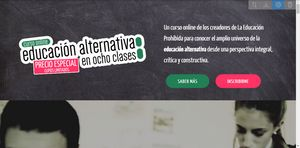
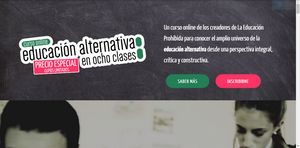
homepage

Changed region(s): [[0.81, 0.0, 0.99, 0.0811]]

diff --git a/assets/parallax/jarallax.min.js b/assets/parallax/jarallax.min.js
@@ -1,7 +1,7 @@
 /*!
  * Name    : Just Another Parallax [Jarallax]
- * Version : 1.10.6
- * Author  : nK <https://nkdev.info>
+ * Version : 1.7.3
+ * Author  : _nK https://nkdev.info
  * GitHub  : https://github.com/nk-o/jarallax
- */!function(o){var n={};function i(e){if(n[e])return n[e].exports;var t=n[e]={i:e,l:!1,exports:{}};return o[e].call(t.exports,t,t.exports,i),t.l=!0,t.exports}i.m=o,i.c=n,i.d=function(e,t,o){i.o(e,t)||Object.defineProperty(e,t,{enumerable:!0,get:o})},i.r=function(e){"undefined"!=typeof Symbol&&Symbol.toStringTag&&Object.defineProperty(e,Symbol.toStringTag,{value:"Module"}),Object.defineProperty(e,"__esModule",{value:!0})},i.t=function(t,e){if(1&e&&(t=i(t)),8&e)return t;if(4&e&&"object"==typeof t&&t&&t.__esModule)return t;var o=Object.create(null);if(i.r(o),Object.defineProperty(o,"default",{enumerable:!0,value:t}),2&e&&"string"!=typeof t)for(var n in t)i.d(o,n,function(e){return t[e]}.bind(null,n));return o},i.n=function(e){var t=e&&e.__esModule?function(){return e.default}:function(){return e};return i.d(t,"a",t),t},i.o=function(e,t){return Object.prototype.hasOwnProperty.call(e,t)},i.p="",i(i.s=11)}([,,function(e,t,o){"use strict";e.exports=function(e){"complete"===document.readyState||"interactive"===document.readyState?e.call():document.attachEvent?document.attachEvent("onreadystatechange",function(){"interactive"===document.readyState&&e.call()}):document.addEventListener&&document.addEventListener("DOMContentLoaded",e)}},,function(o,e,t){"use strict";(function(e){var t;t="undefined"!=typeof window?window:void 0!==e?e:"undefined"!=typeof self?self:{},o.exports=t}).call(this,t(5))},function(e,t,o){"use strict";var n,i="function"==typeof Symbol&&"symbol"==typeof Symbol.iterator?function(e){return typeof e}:function(e){return e&&"function"==typeof Symbol&&e.constructor===Symbol&&e!==Symbol.prototype?"symbol":typeof e};n=function(){return this}();try{n=n||Function("return this")()||(0,eval)("this")}catch(e){"object"===("undefined"==typeof window?"undefined":i(window))&&(n=window)}e.exports=n},,,,,,function(e,t,o){e.exports=o(12)},function(e,t,o){"use strict";var n="function"==typeof Symbol&&"symbol"==typeof Symbol.iterator?function(e){return typeof e}:function(e){return e&&"function"==typeof Symbol&&e.constructor===Symbol&&e!==Symbol.prototype?"symbol":typeof e},i=l(o(2)),a=o(4),r=l(o(13));function l(e){return e&&e.__esModule?e:{default:e}}var s=a.window.jarallax;if(a.window.jarallax=r.default,a.window.jarallax.noConflict=function(){return a.window.jarallax=s,this},void 0!==a.jQuery){var c=function(){var e=arguments||[];Array.prototype.unshift.call(e,this);var t=r.default.apply(a.window,e);return"object"!==(void 0===t?"undefined":n(t))?t:this};c.constructor=r.default.constructor;var u=a.jQuery.fn.jarallax;a.jQuery.fn.jarallax=c,a.jQuery.fn.jarallax.noConflict=function(){return a.jQuery.fn.jarallax=u,this}}(0,i.default)(function(){(0,r.default)(document.querySelectorAll("[data-jarallax]"))})},function(e,j,S){"use strict";(function(e){Object.defineProperty(j,"__esModule",{value:!0});var d=function(e,t){if(Array.isArray(e))return e;if(Symbol.iterator in Object(e))return function(e,t){var o=[],n=!0,i=!1,a=void 0;try{for(var r,l=e[Symbol.iterator]();!(n=(r=l.next()).done)&&(o.push(r.value),!t||o.length!==t);n=!0);}catch(e){i=!0,a=e}finally{try{!n&&l.return&&l.return()}finally{if(i)throw a}}return o}(e,t);throw new TypeError("Invalid attempt to destructure non-iterable instance")},t=function(){function n(e,t){for(var o=0;o<t.length;o++){var n=t[o];n.enumerable=n.enumerable||!1,n.configurable=!0,"value"in n&&(n.writable=!0),Object.defineProperty(e,n.key,n)}}return function(e,t,o){return t&&n(e.prototype,t),o&&n(e,o),e}}(),p="function"==typeof Symbol&&"symbol"==typeof Symbol.iterator?function(e){return typeof e}:function(e){return e&&"function"==typeof Symbol&&e.constructor===Symbol&&e!==Symbol.prototype?"symbol":typeof e},o=a(S(2)),n=a(S(14)),i=S(4);function a(e){return e&&e.__esModule?e:{default:e}}var s=-1<navigator.userAgent.indexOf("MSIE ")||-1<navigator.userAgent.indexOf("Trident/")||-1<navigator.userAgent.indexOf("Edge/"),r=function(){for(var e="transform WebkitTransform MozTransform".split(" "),t=document.createElement("div"),o=0;o<e.length;o++)if(t&&void 0!==t.style[e[o]])return e[o];return!1}(),b=void 0,v=void 0,l=void 0,c=!1,u=!1;function m(e){b=i.window.innerWidth||document.documentElement.clientWidth,v=i.window.innerHeight||document.documentElement.clientHeight,"object"!==(void 0===e?"undefined":p(e))||"load"!==e.type&&"dom-loaded"!==e.type||(c=!0)}m(),i.window.addEventListener("resize",m),i.window.addEventListener("orientationchange",m),i.window.addEventListener("load",m),(0,o.default)(function(){m({type:"dom-loaded"})});var f=[],y=!1;function g(){if(f.length){l=void 0!==i.window.pageYOffset?i.window.pageYOffset:(document.documentElement||document.body.parentNode||document.body).scrollTop;var t=c||!y||y.width!==b||y.height!==v,o=u||t||!y||y.y!==l;u=c=!1,(t||o)&&(f.forEach(function(e){t&&e.onResize(),o&&e.onScroll()}),y={width:b,height:v,y:l}),(0,n.default)(g)}}var h=!!e.ResizeObserver&&new e.ResizeObserver(function(e){e&&e.length&&(0,n.default)(function(){e.forEach(function(e){e.target&&e.target.jarallax&&(c||e.target.jarallax.onResize(),u=!0)})})}),x=0,w=function(){function u(e,t){!function(e,t){if(!(e instanceof t))throw new TypeError("Cannot call a class as a function")}(this,u);var o=this;o.instanceID=x++,o.$item=e,o.defaults={type:"scroll",speed:.5,imgSrc:null,imgElement:".jarallax-img",imgSize:"cover",imgPosition:"50% 50%",imgRepeat:"no-repeat",keepImg:!1,elementInViewport:null,zIndex:-100,disableParallax:!1,disableVideo:!1,automaticResize:!0,videoSrc:null,videoStartTime:0,videoEndTime:0,videoVolume:0,videoPlayOnlyVisible:!0,onScroll:null,onInit:null,onDestroy:null,onCoverImage:null};var n=o.$item.getAttribute("data-jarallax"),i=JSON.parse(n||"{}");n&&console.warn("Detected usage of deprecated data-jarallax JSON options, you should use pure data-attribute options. See info here - https://github.com/nk-o/jarallax/issues/53");var a=o.$item.dataset||{},r={};if(Object.keys(a).forEach(function(e){var t=e.substr(0,1).toLowerCase()+e.substr(1);t&&void 0!==o.defaults[t]&&(r[t]=a[e])}),o.options=o.extend({},o.defaults,i,r,t),o.pureOptions=o.extend({},o.options),Object.keys(o.options).forEach(function(e){"true"===o.options[e]?o.options[e]=!0:"false"===o.options[e]&&(o.options[e]=!1)}),o.options.speed=Math.min(2,Math.max(-1,parseFloat(o.options.speed))),(o.options.noAndroid||o.options.noIos)&&(console.warn("Detected usage of deprecated noAndroid or noIos options, you should use disableParallax option. See info here - https://github.com/nk-o/jarallax/#disable-on-mobile-devices"),o.options.disableParallax||(o.options.noIos&&o.options.noAndroid?o.options.disableParallax=/iPad|iPhone|iPod|Android/:o.options.noIos?o.options.disableParallax=/iPad|iPhone|iPod/:o.options.noAndroid&&(o.options.disableParallax=/Android/))),"string"==typeof o.options.disableParallax&&(o.options.disableParallax=new RegExp(o.options.disableParallax)),o.options.disableParallax instanceof RegExp){var l=o.options.disableParallax;o.options.disableParallax=function(){return l.test(navigator.userAgent)}}if("function"!=typeof o.options.disableParallax&&(o.options.disableParallax=function(){return!1}),"string"==typeof o.options.disableVideo&&(o.options.disableVideo=new RegExp(o.options.disableVideo)),o.options.disableVideo instanceof RegExp){var s=o.options.disableVideo;o.options.disableVideo=function(){return s.test(navigator.userAgent)}}"function"!=typeof o.options.disableVideo&&(o.options.disableVideo=function(){return!1});var c=o.options.elementInViewport;c&&"object"===(void 0===c?"undefined":p(c))&&void 0!==c.length&&(c=d(c,1)[0]);c instanceof Element||(c=null),o.options.elementInViewport=c,o.image={src:o.options.imgSrc||null,$container:null,useImgTag:!1,position:/iPad|iPhone|iPod|Android/.test(navigator.userAgent)?"absolute":"fixed"},o.initImg()&&o.canInitParallax()&&o.init()}return t(u,[{key:"css",value:function(t,o){return"string"==typeof o?i.window.getComputedStyle(t).getPropertyValue(o):(o.transform&&r&&(o[r]=o.transform),Object.keys(o).forEach(function(e){t.style[e]=o[e]}),t)}},{key:"extend",value:function(o){var n=arguments;return o=o||{},Object.keys(arguments).forEach(function(t){n[t]&&Object.keys(n[t]).forEach(function(e){o[e]=n[t][e]})}),o}},{key:"getWindowData",value:function(){return{width:b,height:v,y:l}}},{key:"initImg",value:function(){var e=this,t=e.options.imgElement;return t&&"string"==typeof t&&(t=e.$item.querySelector(t)),t instanceof Element||(t=null),t&&(e.options.keepImg?e.image.$item=t.cloneNode(!0):(e.image.$item=t,e.image.$itemParent=t.parentNode),e.image.useImgTag=!0),!!e.image.$item||(null===e.image.src&&(e.image.src=e.css(e.$item,"background-image").replace(/^url\(['"]?/g,"").replace(/['"]?\)$/g,"")),!(!e.image.src||"none"===e.image.src))}},{key:"canInitParallax",value:function(){return r&&!this.options.disableParallax()}},{key:"init",value:function(){var e=this,t={position:"absolute",top:0,left:0,width:"100%",height:"100%",overflow:"hidden",pointerEvents:"none"},o={};if(!e.options.keepImg){var n=e.$item.getAttribute("style");if(n&&e.$item.setAttribute("data-jarallax-original-styles",n),e.image.useImgTag){var i=e.image.$item.getAttribute("style");i&&e.image.$item.setAttribute("data-jarallax-original-styles",i)}}if("static"===e.css(e.$item,"position")&&e.css(e.$item,{position:"relative"}),"auto"===e.css(e.$item,"z-index")&&e.css(e.$item,{zIndex:0}),e.image.$container=document.createElement("div"),e.css(e.image.$container,t),e.css(e.image.$container,{"z-index":e.options.zIndex}),s&&e.css(e.image.$container,{opacity:.9999}),e.image.$container.setAttribute("id","jarallax-container-"+e.instanceID),e.$item.appendChild(e.image.$container),e.image.useImgTag?o=e.extend({"object-fit":e.options.imgSize,"object-position":e.options.imgPosition,"font-family":"object-fit: "+e.options.imgSize+"; object-position: "+e.options.imgPosition+";","max-width":"none"},t,o):(e.image.$item=document.createElement("div"),e.image.src&&(o=e.extend({"background-position":e.options.imgPosition,"background-size":e.options.imgSize,"background-repeat":e.options.imgRepeat,"background-image":'url("'+e.image.src+'")'},t,o))),"opacity"!==e.options.type&&"scale"!==e.options.type&&"scale-opacity"!==e.options.type&&1!==e.options.speed||(e.image.position="absolute"),"fixed"===e.image.position)for(var a=0,r=e.$item;null!==r&&r!==document&&0===a;){var l=e.css(r,"-webkit-transform")||e.css(r,"-moz-transform")||e.css(r,"transform");l&&"none"!==l&&(a=1,e.image.position="absolute"),r=r.parentNode}o.position=e.image.position,e.css(e.image.$item,o),e.image.$container.appendChild(e.image.$item),e.onResize(),e.onScroll(!0),e.options.automaticResize&&h&&h.observe(e.$item),e.options.onInit&&e.options.onInit.call(e),"none"!==e.css(e.$item,"background-image")&&e.css(e.$item,{"background-image":"none"}),e.addToParallaxList()}},{key:"addToParallaxList",value:function(){f.push(this),1===f.length&&g()}},{key:"removeFromParallaxList",value:function(){var o=this;f.forEach(function(e,t){e.instanceID===o.instanceID&&f.splice(t,1)})}},{key:"destroy",value:function(){var e=this;e.removeFromParallaxList();var t=e.$item.getAttribute("data-jarallax-original-styles");if(e.$item.removeAttribute("data-jarallax-original-styles"),t?e.$item.setAttribute("style",t):e.$item.removeAttribute("style"),e.image.useImgTag){var o=e.image.$item.getAttribute("data-jarallax-original-styles");e.image.$item.removeAttribute("data-jarallax-original-styles"),o?e.image.$item.setAttribute("style",t):e.image.$item.removeAttribute("style"),e.image.$itemParent&&e.image.$itemParent.appendChild(e.image.$item)}e.$clipStyles&&e.$clipStyles.parentNode.removeChild(e.$clipStyles),e.image.$container&&e.image.$container.parentNode.removeChild(e.image.$container),e.options.onDestroy&&e.options.onDestroy.call(e),delete e.$item.jarallax}},{key:"clipContainer",value:function(){if("fixed"===this.image.position){var e=this,t=e.image.$container.getBoundingClientRect(),o=t.width,n=t.height;if(!e.$clipStyles)e.$clipStyles=document.createElement("style"),e.$clipStyles.setAttribute("type","text/css"),e.$clipStyles.setAttribute("id","jarallax-clip-"+e.instanceID),(document.head||document.getElementsByTagName("head")[0]).appendChild(e.$clipStyles);var i="#jarallax-container-"+e.instanceID+" {\n           clip: rect(0 "+o+"px "+n+"px 0);\n           clip: rect(0, "+o+"px, "+n+"px, 0);\n        }";e.$clipStyles.styleSheet?e.$clipStyles.styleSheet.cssText=i:e.$clipStyles.innerHTML=i}}},{key:"coverImage",value:function(){var e=this,t=e.image.$container.getBoundingClientRect(),o=t.height,n=e.options.speed,i="scroll"===e.options.type||"scroll-opacity"===e.options.type,a=0,r=o,l=0;return i&&(n<0?(a=n*Math.max(o,v),v<o&&(a-=n*(o-v))):a=n*(o+v),1<n?r=Math.abs(a-v):n<0?r=a/n+Math.abs(a):r+=(v-o)*(1-n),a/=2),e.parallaxScrollDistance=a,l=i?(v-r)/2:(o-r)/2,e.css(e.image.$item,{height:r+"px",marginTop:l+"px",left:"fixed"===e.image.position?t.left+"px":"0",width:t.width+"px"}),e.options.onCoverImage&&e.options.onCoverImage.call(e),{image:{height:r,marginTop:l},container:t}}},{key:"isVisible",value:function(){return this.isElementInViewport||!1}},{key:"onScroll",value:function(e){var t=this,o=t.$item.getBoundingClientRect(),n=o.top,i=o.height,a={},r=o;if(t.options.elementInViewport&&(r=t.options.elementInViewport.getBoundingClientRect()),t.isElementInViewport=0<=r.bottom&&0<=r.right&&r.top<=v&&r.left<=b,e||t.isElementInViewport){var l=Math.max(0,n),s=Math.max(0,i+n),c=Math.max(0,-n),u=Math.max(0,n+i-v),d=Math.max(0,i-(n+i-v)),p=Math.max(0,-n+v-i),m=1-2*(v-n)/(v+i),f=1;if(i<v?f=1-(c||u)/i:s<=v?f=s/v:d<=v&&(f=d/v),"opacity"!==t.options.type&&"scale-opacity"!==t.options.type&&"scroll-opacity"!==t.options.type||(a.transform="translate3d(0,0,0)",a.opacity=f),"scale"===t.options.type||"scale-opacity"===t.options.type){var y=1;t.options.speed<0?y-=t.options.speed*f:y+=t.options.speed*(1-f),a.transform="scale("+y+") translate3d(0,0,0)"}if("scroll"===t.options.type||"scroll-opacity"===t.options.type){var g=t.parallaxScrollDistance*m;"absolute"===t.image.position&&(g-=n),a.transform="translate3d(0,"+g+"px,0)"}t.css(t.image.$item,a),t.options.onScroll&&t.options.onScroll.call(t,{section:o,beforeTop:l,beforeTopEnd:s,afterTop:c,beforeBottom:u,beforeBottomEnd:d,afterBottom:p,visiblePercent:f,fromViewportCenter:m})}}},{key:"onResize",value:function(){this.coverImage(),this.clipContainer()}}]),u}(),$=function(e){("object"===("undefined"==typeof HTMLElement?"undefined":p(HTMLElement))?e instanceof HTMLElement:e&&"object"===(void 0===e?"undefined":p(e))&&null!==e&&1===e.nodeType&&"string"==typeof e.nodeName)&&(e=[e]);for(var t=arguments[1],o=Array.prototype.slice.call(arguments,2),n=e.length,i=0,a=void 0;i<n;i++)if("object"===(void 0===t?"undefined":p(t))||void 0===t?e[i].jarallax||(e[i].jarallax=new w(e[i],t)):e[i].jarallax&&(a=e[i].jarallax[t].apply(e[i].jarallax,o)),void 0!==a)return a;return e};$.constructor=w,j.default=$}).call(this,S(5))},function(e,t,o){"use strict";var n=o(4),i=n.requestAnimationFrame||n.webkitRequestAnimationFrame||n.mozRequestAnimationFrame||function(e){var t=+new Date,o=Math.max(0,16-(t-a)),n=setTimeout(e,o);return a=t,n},a=+new Date;var r=n.cancelAnimationFrame||n.webkitCancelAnimationFrame||n.mozCancelAnimationFrame||clearTimeout;Function.prototype.bind&&(i=i.bind(n),r=r.bind(n)),(e.exports=i).cancel=r}]);
-//# sourceMappingURL=jarallax.min.js.map
+ */
+!function(e){"use strict";function t(){i=e.innerWidth||document.documentElement.clientWidth,a=e.innerHeight||document.documentElement.clientHeight}function n(e,t,n){e.addEventListener?e.addEventListener(t,n):e.attachEvent("on"+t,function(){n.call(e)})}function o(n){e.requestAnimationFrame(function(){"scroll"!==n.type&&t();for(var e=0,o=g.length;e<o;e++)"scroll"!==n.type&&(g[e].coverImage(),g[e].clipContainer()),g[e].onScroll()})}Date.now||(Date.now=function(){return(new Date).getTime()}),e.requestAnimationFrame||!function(){for(var t=["webkit","moz"],n=0;n<t.length&&!e.requestAnimationFrame;++n){var o=t[n];e.requestAnimationFrame=e[o+"RequestAnimationFrame"],e.cancelAnimationFrame=e[o+"CancelAnimationFrame"]||e[o+"CancelRequestAnimationFrame"]}if(/iP(ad|hone|od).*OS 6/.test(e.navigator.userAgent)||!e.requestAnimationFrame||!e.cancelAnimationFrame){var i=0;e.requestAnimationFrame=function(e){var t=Date.now(),n=Math.max(i+16,t);return setTimeout(function(){e(i=n)},n-t)},e.cancelAnimationFrame=clearTimeout}}();var i,a,r=function(){if(!e.getComputedStyle)return!1;var t,n=document.createElement("p"),o={webkitTransform:"-webkit-transform",OTransform:"-o-transform",msTransform:"-ms-transform",MozTransform:"-moz-transform",transform:"transform"};(document.body||document.documentElement).insertBefore(n,null);for(var i in o)"undefined"!=typeof n.style[i]&&(n.style[i]="translate3d(1px,1px,1px)",t=e.getComputedStyle(n).getPropertyValue(o[i]));return(document.body||document.documentElement).removeChild(n),"undefined"!=typeof t&&t.length>0&&"none"!==t}(),l=navigator.userAgent.toLowerCase().indexOf("android")>-1,s=/iPad|iPhone|iPod/.test(navigator.userAgent)&&!e.MSStream,c=!!e.opera,m=/Edge\/\d+/.test(navigator.userAgent),p=/Trident.*rv[ :]*11\./.test(navigator.userAgent),u=!!Function("/*@cc_on return document.documentMode===10@*/")(),d=document.all&&!e.atob;t();var g=[],f=function(){function e(e,n){var o,i=this;if(i.$item=e,i.defaults={type:"scroll",speed:.5,imgSrc:null,imgWidth:null,imgHeight:null,enableTransform:!0,elementInViewport:null,zIndex:-100,noAndroid:!1,noIos:!0,onScroll:null,onInit:null,onDestroy:null,onCoverImage:null},o=JSON.parse(i.$item.getAttribute("data-jarallax")||"{}"),i.options=i.extend({},i.defaults,o,n),!(l&&i.options.noAndroid||s&&i.options.noIos)){i.options.speed=Math.min(2,Math.max(-1,parseFloat(i.options.speed)));var a=i.options.elementInViewport;a&&"object"==typeof a&&"undefined"!=typeof a.length&&(a=a[0]),!a instanceof Element&&(a=null),i.options.elementInViewport=a,i.instanceID=t++,i.image={src:i.options.imgSrc||null,$container:null,$item:null,width:i.options.imgWidth||null,height:i.options.imgHeight||null,useImgTag:s||l||c||p||u||m},i.initImg()&&i.init()}}var t=0;return e}();f.prototype.css=function(t,n){if("string"==typeof n)return e.getComputedStyle?e.getComputedStyle(t).getPropertyValue(n):t.style[n];n.transform&&(n.WebkitTransform=n.MozTransform=n.transform);for(var o in n)t.style[o]=n[o];return t},f.prototype.extend=function(e){e=e||{};for(var t=1;t<arguments.length;t++)if(arguments[t])for(var n in arguments[t])arguments[t].hasOwnProperty(n)&&(e[n]=arguments[t][n]);return e},f.prototype.initImg=function(){var e=this;return null===e.image.src&&(e.image.src=e.css(e.$item,"background-image").replace(/^url\(['"]?/g,"").replace(/['"]?\)$/g,"")),!(!e.image.src||"none"===e.image.src)},f.prototype.init=function(){function e(){t.coverImage(),t.clipContainer(),t.onScroll(!0),t.options.onInit&&t.options.onInit.call(t),setTimeout(function(){t.$item&&t.css(t.$item,{"background-image":"none","background-attachment":"scroll","background-size":"auto"})},0)}var t=this,n={position:"absolute",top:0,left:0,width:"100%",height:"100%",overflow:"hidden",pointerEvents:"none"},o={position:"fixed"};t.$item.setAttribute("data-jarallax-original-styles",t.$item.getAttribute("style")),"static"===t.css(t.$item,"position")&&t.css(t.$item,{position:"relative"}),"auto"===t.css(t.$item,"z-index")&&t.css(t.$item,{zIndex:0}),t.image.$container=document.createElement("div"),t.css(t.image.$container,n),t.css(t.image.$container,{visibility:"hidden","z-index":t.options.zIndex}),t.image.$container.setAttribute("id","jarallax-container-"+t.instanceID),t.$item.appendChild(t.image.$container),t.image.useImgTag&&r&&t.options.enableTransform?(t.image.$item=document.createElement("img"),t.image.$item.setAttribute("src",t.image.src),o=t.extend({"max-width":"none"},n,o)):(t.image.$item=document.createElement("div"),o=t.extend({"background-position":"50% 50%","background-size":"100% auto","background-repeat":"no-repeat no-repeat","background-image":'url("'+t.image.src+'")'},n,o)),d&&(o.backgroundAttachment="fixed"),t.parentWithTransform=0;for(var i=t.$item;null!==i&&i!==document&&0===t.parentWithTransform;){var a=t.css(i,"-webkit-transform")||t.css(i,"-moz-transform")||t.css(i,"transform");a&&"none"!==a&&(t.parentWithTransform=1,t.css(t.image.$container,{transform:"translateX(0) translateY(0)"})),i=i.parentNode}t.css(t.image.$item,o),t.image.$container.appendChild(t.image.$item),t.image.width&&t.image.height?e():t.getImageSize(t.image.src,function(n,o){t.image.width=n,t.image.height=o,e()}),g.push(t)},f.prototype.destroy=function(){for(var e=this,t=0,n=g.length;t<n;t++)if(g[t].instanceID===e.instanceID){g.splice(t,1);break}var o=e.$item.getAttribute("data-jarallax-original-styles");e.$item.removeAttribute("data-jarallax-original-styles"),"null"===o?e.$item.removeAttribute("style"):e.$item.setAttribute("style",o),e.$clipStyles&&e.$clipStyles.parentNode.removeChild(e.$clipStyles),e.image.$container.parentNode.removeChild(e.image.$container),e.options.onDestroy&&e.options.onDestroy.call(e),delete e.$item.jarallax;for(var i in e)delete e[i]},f.prototype.getImageSize=function(e,t){if(e&&t){var n=new Image;n.onload=function(){t(n.width,n.height)},n.src=e}},f.prototype.clipContainer=function(){if(!d){var e=this,t=e.image.$container.getBoundingClientRect(),n=t.width,o=t.height;if(!e.$clipStyles){e.$clipStyles=document.createElement("style"),e.$clipStyles.setAttribute("type","text/css"),e.$clipStyles.setAttribute("id","#jarallax-clip-"+e.instanceID);var i=document.head||document.getElementsByTagName("head")[0];i.appendChild(e.$clipStyles)}var a=["#jarallax-container-"+e.instanceID+" {","   clip: rect(0 "+n+"px "+o+"px 0);","   clip: rect(0, "+n+"px, "+o+"px, 0);","}"].join("\n");e.$clipStyles.styleSheet?e.$clipStyles.styleSheet.cssText=a:e.$clipStyles.innerHTML=a}},f.prototype.coverImage=function(){var e=this;if(e.image.width&&e.image.height){var t=e.image.$container.getBoundingClientRect(),n=t.width,o=t.height,i=t.left,l=e.image.width,s=e.image.height,c=e.options.speed,m="scroll"===e.options.type||"scroll-opacity"===e.options.type,p=0,u=0,d=o,g=0,f=0;m&&(p=c<0?c*Math.max(o,a):c*(o+a),c>1?d=Math.abs(p-a):c<0?d=p/c+Math.abs(p):d+=Math.abs(a-o)*(1-c),p/=2),u=d*l/s,u<n&&(u=n,d=u*s/l),e.bgPosVerticalCenter=0,!(m&&d<a)||r&&e.options.enableTransform||(e.bgPosVerticalCenter=(a-d)/2,d=a),m?(g=i+(n-u)/2,f=(a-d)/2):(g=(n-u)/2,f=(o-d)/2),r&&e.options.enableTransform&&e.parentWithTransform&&(g-=i),e.parallaxScrollDistance=p,e.css(e.image.$item,{width:u+"px",height:d+"px",marginLeft:g+"px",marginTop:f+"px"}),e.options.onCoverImage&&e.options.onCoverImage.call(e)}},f.prototype.isVisible=function(){return this.isElementInViewport||!1},f.prototype.onScroll=function(e){var t=this;if(t.image.width&&t.image.height){var n=t.$item.getBoundingClientRect(),o=n.top,l=n.height,s={position:"absolute",visibility:"visible",backgroundPosition:"50% 50%"},c=n;if(t.options.elementInViewport&&(c=t.options.elementInViewport.getBoundingClientRect()),t.isElementInViewport=c.bottom>=0&&c.right>=0&&c.top<=a&&c.left<=i,e||t.isElementInViewport){var m=Math.max(0,o),p=Math.max(0,l+o),u=Math.max(0,-o),g=Math.max(0,o+l-a),f=Math.max(0,l-(o+l-a)),h=Math.max(0,-o+a-l),y=1-2*(a-o)/(a+l),v=1;if(l<a?v=1-(u||g)/l:p<=a?v=p/a:f<=a&&(v=f/a),"opacity"!==t.options.type&&"scale-opacity"!==t.options.type&&"scroll-opacity"!==t.options.type||(s.transform="translate3d(0, 0, 0)",s.opacity=v),"scale"===t.options.type||"scale-opacity"===t.options.type){var x=1;t.options.speed<0?x-=t.options.speed*v:x+=t.options.speed*(1-v),s.transform="scale("+x+") translate3d(0, 0, 0)"}if("scroll"===t.options.type||"scroll-opacity"===t.options.type){var b=t.parallaxScrollDistance*y;r&&t.options.enableTransform?(t.parentWithTransform&&(b-=o),s.transform="translate3d(0, "+b+"px, 0)"):t.image.useImgTag?s.top=b+"px":(t.bgPosVerticalCenter&&(b+=t.bgPosVerticalCenter),s.backgroundPosition="50% "+b+"px"),s.position=d?"absolute":"fixed"}t.css(t.image.$item,s),t.options.onScroll&&t.options.onScroll.call(t,{section:n,beforeTop:m,beforeTopEnd:p,afterTop:u,beforeBottom:g,beforeBottomEnd:f,afterBottom:h,visiblePercent:v,fromViewportCenter:y})}}},n(e,"scroll",o),n(e,"resize",o),n(e,"orientationchange",o),n(e,"load",o);var h=function(e){("object"==typeof HTMLElement?e instanceof HTMLElement:e&&"object"==typeof e&&null!==e&&1===e.nodeType&&"string"==typeof e.nodeName)&&(e=[e]);var t,n=arguments[1],o=Array.prototype.slice.call(arguments,2),i=e.length,a=0;for(a;a<i;a++)if("object"==typeof n||"undefined"==typeof n?e[a].jarallax||(e[a].jarallax=new f(e[a],n)):e[a].jarallax&&(t=e[a].jarallax[n].apply(e[a].jarallax,o)),"undefined"!=typeof t)return t;return e};h.constructor=f;var y=e.jarallax;if(e.jarallax=h,e.jarallax.noConflict=function(){return e.jarallax=y,this},"undefined"!=typeof jQuery){var v=function(){var t=arguments||[];Array.prototype.unshift.call(t,this);var n=h.apply(e,t);return"object"!=typeof n?n:this};v.constructor=f;var x=jQuery.fn.jarallax;jQuery.fn.jarallax=v,jQuery.fn.jarallax.noConflict=function(){return jQuery.fn.jarallax=x,this}}n(e,"DOMContentLoaded",function(){h(document.querySelectorAll("[data-jarallax], [data-jarallax-video]"))})}(window);

diff --git a/assets/mobirise/css/mbr-additional.css b/assets/mobirise/css/mbr-additional.css
@@ -92,15 +92,12 @@ body {
   -webkit-transition: all 0.3s ease-in-out;
   -moz-transition: all 0.3s ease-in-out;
   transition: all 0.3s ease-in-out;
+  padding: 1rem 3rem;
+  border-radius: 3px;
   display: inline-flex;
   align-items: center;
   justify-content: center;
   word-break: break-word;
-  -webkit-align-items: center;
-  -webkit-justify-content: center;
-  display: -webkit-inline-flex;
-  padding: 1rem 3rem;
-  border-radius: 3px;
 }
 .btn-sm {
   font-weight: 500;
@@ -611,7 +608,6 @@ a:hover {
   left: 30%;
   bottom: 30%;
   transform: rotate(135deg);
-  -webkit-transform: rotate(135deg);
 }
 /* Others*/
 .note-check a[data-value=Rubik] {
@@ -652,7 +648,6 @@ a:hover {
   position: absolute;
   transform: rotate(45deg);
   width: 14px;
-  -webkit-transform: rotate(45deg);
 }
 .form-control {
   background-color: #f5f5f5;
@@ -714,7 +709,6 @@ pre {
 }
 .mbr-section__comments .row {
   justify-content: center;
-  -webkit-justify-content: center;
 }
 /* Forms */
 .mbr-form .btn {
@@ -1166,7 +1160,10 @@ pre {
     align-items: center;
   }
   .navbar-toggleable-sm .navbar-collapse {
-    display: none;
+    display: -webkit-box !important;
+    display: -webkit-flex !important;
+    display: -ms-flexbox !important;
+    display: flex !important;
     width: 100%;
   }
   .navbar-toggleable-sm .navbar-toggler {
@@ -1354,7 +1351,6 @@ pre {
 }
 .menu .navbar.collapsed:not(.beta-menu) {
   flex-direction: column;
-  -webkit-flex-direction: column;
 }
 .carousel-item.active,
 .carousel-item-next,
@@ -1375,11 +1371,6 @@ body {
 }
 .dropup .dropdown-toggle::after {
   display: none;
-}
-@media screen and (-ms-high-contrast: active), (-ms-high-contrast: none) {
-  .card-wrapper {
-    flex: auto!important;
-  }
 }
 .cid-rdSqKphtix {
   padding-top: 45px;

diff --git a/index.html b/index.html
@@ -1,10 +1,10 @@
 <!DOCTYPE html>
 <html >
 <head>
-  <!-- Site made with Mobirise Website Builder v4.9.1, https://mobirise.com -->
+  <!-- Site made with Mobirise Website Builder v4.8.2, https://mobirise.com -->
   <meta charset="UTF-8">
   <meta http-equiv="X-UA-Compatible" content="IE=edge">
-  <meta name="generator" content="Mobirise v4.9.1, mobirise.com">
+  <meta name="generator" content="Mobirise v4.8.2, mobirise.com">
   <meta name="viewport" content="width=device-width, initial-scale=1, minimum-scale=1">
   <link rel="shortcut icon" href="assets/images/grupo-128x63.png" type="image/x-icon">
   <meta name="description" content="">
@@ -53,7 +53,7 @@
     </nav>
 </section>
 
-<section class="engine"><a href="https://mobirise.info/z">best free website templates</a></section><section class="header3 cid-rdSqKphtix mbr-parallax-background" id="header3-3n">
+<section class="engine"><a href="https://mobiri.se/o">free portfolio website templates</a></section><section class="header3 cid-rdSqKphtix mbr-parallax-background" id="header3-3n">
 
     
 
@@ -62,7 +62,7 @@
     <div class="container">
         <div class="media-container-row">
             <div class="mbr-figure" style="width: 120%;">
-                <a href="https://desaprenderonline.com/curso/"><img src="assets/images/logo-dic-1116x529.png" alt="Mobirise" title=""></a>
+                <a href="https://desaprenderonline.com/curso/"><img src="assets/images/findeao-1111x527.png" alt="Mobirise" title=""></a>
             </div>
 
             <div class="media-content">

diff --git a/assets/theme/css/style.css b/assets/theme/css/style.css
@@ -190,8 +190,7 @@ figure[mbr-media-size] {
 
 .card-img {
   text-align: center;
-  flex-shrink: 0;
-  -webkit-flex-shrink: 0; }
+  flex-shrink: 0; }
 
 .media {
   max-width: 100%;
@@ -415,59 +414,6 @@ nav .mbr-section-btn {
     display: -webkit-flex; }
   .menu .navbar-toggleable-sm .navbar-collapse {
     display: -webkit-flex !important; } }
-@media (max-width: 767px) {
-  .menu .navbar-collapse {
-    overflow-y: auto;
-    max-height: 80vh; }
-  .menu .dropdown-menu {
-    max-height: 60vh;
-    overflow-y: auto; } }
-
-.navbar {
-  display: -webkit-flex;
-  -webkit-flex-wrap: wrap;
-  -webkit-align-items: center;
-  -webkit-justify-content: space-between; }
-
-.navbar-collapse {
-  -webkit-flex-basis: 100%;
-  -webkit-flex-grow: 1;
-  -webkit-align-items: center; }
-
-.nav-dropdown .link {
-  padding: .667em 1.667em !important;
-  margin: 0 !important; }
-
-.nav {
-  display: -webkit-flex;
-  -webkit-flex-wrap: wrap; }
-
-.row {
-  display: -webkit-flex;
-  -webkit-flex-wrap: wrap; }
-
-.justify-content-center {
-  -webkit-justify-content: center; }
-
-.form-inline {
-  display: -webkit-flex;
-  -webkit-flex-flow: row wrap;
-  -webkit-align-items: center; }
-
-.card-wrapper {
-  -webkit-flex: 1; }
-
-.carousel-control {
-  z-index: 10;
-  display: -webkit-flex;
-  -webkit-align-items: center;
-  -webkit-justify-content: center; }
-
-.carousel-controls {
-  display: -webkit-flex; }
-
-.media {
-  display: -webkit-flex; }
 
 /*# sourceMappingURL=style.css.map */
 .engine {

diff --git a/desaprender.html b/desaprender.html
@@ -1,10 +1,10 @@
 <!DOCTYPE html>
 <html >
 <head>
-  <!-- Site made with Mobirise Website Builder v4.9.1, https://mobirise.com -->
+  <!-- Site made with Mobirise Website Builder v4.8.2, https://mobirise.com -->
   <meta charset="UTF-8">
   <meta http-equiv="X-UA-Compatible" content="IE=edge">
-  <meta name="generator" content="Mobirise v4.9.1, mobirise.com">
+  <meta name="generator" content="Mobirise v4.8.2, mobirise.com">
   <meta name="viewport" content="width=device-width, initial-scale=1, minimum-scale=1">
   <link rel="shortcut icon" href="assets/images/grupo-128x63.png" type="image/x-icon">
   <meta name="description" content="Próximo Taller Vivencial Desaprender">
@@ -53,7 +53,7 @@
     </nav>
 </section>
 
-<section class="engine"><a href="https://mobirise.info/i">website creation software</a></section><section class="header3 cid-r7qnNRUAeB mbr-parallax-background" id="header3-1o">
+<section class="engine"><a href="https://mobiri.se/h">create your own web page for free</a></section><section class="header3 cid-r7qnNRUAeB mbr-parallax-background" id="header3-1o">
 
     
 

diff --git a/formacion.html b/formacion.html
@@ -1,10 +1,10 @@
 <!DOCTYPE html>
 <html >
 <head>
-  <!-- Site made with Mobirise Website Builder v4.9.1, https://mobirise.com -->
+  <!-- Site made with Mobirise Website Builder v4.8.2, https://mobirise.com -->
   <meta charset="UTF-8">
   <meta http-equiv="X-UA-Compatible" content="IE=edge">
-  <meta name="generator" content="Mobirise v4.9.1, mobirise.com">
+  <meta name="generator" content="Mobirise v4.8.2, mobirise.com">
   <meta name="viewport" content="width=device-width, initial-scale=1, minimum-scale=1">
   <link rel="shortcut icon" href="assets/images/grupo-128x63.png" type="image/x-icon">
   <meta name="description" content="Formación de Evania Reichert en Prevención de Neurosis en la Infancia">
@@ -52,7 +52,7 @@
     </nav>
 </section>
 
-<section class="engine"><a href="https://mobirise.info/b">create your own website for free</a></section><section class="header6 cid-rt1zFkq1uU" id="header6-4h">
+<section class="engine"><a href="https://mobiri.se/b">how to create your own website for free</a></section><section class="header6 cid-rt1zFkq1uU" id="header6-4h">
 
     
 

diff --git a/desaprender-inscripcion.html b/desaprender-inscripcion.html
@@ -1,10 +1,10 @@
 <!DOCTYPE html>
 <html >
 <head>
-  <!-- Site made with Mobirise Website Builder v4.9.1, https://mobirise.com -->
+  <!-- Site made with Mobirise Website Builder v4.8.2, https://mobirise.com -->
   <meta charset="UTF-8">
   <meta http-equiv="X-UA-Compatible" content="IE=edge">
-  <meta name="generator" content="Mobirise v4.9.1, mobirise.com">
+  <meta name="generator" content="Mobirise v4.8.2, mobirise.com">
   <meta name="viewport" content="width=device-width, initial-scale=1, minimum-scale=1">
   <link rel="shortcut icon" href="assets/images/grupo-128x63.png" type="image/x-icon">
   <meta name="description" content="Site Maker Description">
@@ -52,7 +52,7 @@
     </nav>
 </section>
 
-<section class="engine"><a href="https://mobirise.info/z">best free website templates</a></section><section class="header3 cid-r7TvRGX9xJ mbr-parallax-background" id="header3-2s">
+<section class="engine"><a href="https://mobiri.se/y">free html website templates</a></section><section class="header3 cid-r7TvRGX9xJ mbr-parallax-background" id="header3-2s">
 
     
 

diff --git a/quienes.html b/quienes.html
@@ -1,10 +1,10 @@
 <!DOCTYPE html>
 <html >
 <head>
-  <!-- Site made with Mobirise Website Builder v4.9.1, https://mobirise.com -->
+  <!-- Site made with Mobirise Website Builder v4.8.2, https://mobirise.com -->
   <meta charset="UTF-8">
   <meta http-equiv="X-UA-Compatible" content="IE=edge">
-  <meta name="generator" content="Mobirise v4.9.1, mobirise.com">
+  <meta name="generator" content="Mobirise v4.8.2, mobirise.com">
   <meta name="viewport" content="width=device-width, initial-scale=1, minimum-scale=1">
   <link rel="shortcut icon" href="assets/images/grupo-128x63.png" type="image/x-icon">
   <meta name="description" content="Web Site Generator Description">
@@ -52,7 +52,7 @@
     </nav>
 </section>
 
-<section class="engine"><a href="https://mobirise.info/g">how to build your own website for free</a></section><section class="mbr-section content4 cid-r7qFN8rQj1" id="content4-2p">
+<section class="engine"><a href="https://mobiri.se/s">bootstrap theme</a></section><section class="mbr-section content4 cid-r7qFN8rQj1" id="content4-2p">
 
     
 

diff --git a/taller.html b/taller.html
@@ -1,10 +1,10 @@
 <!DOCTYPE html>
 <html >
 <head>
-  <!-- Site made with Mobirise Website Builder v4.9.1, https://mobirise.com -->
+  <!-- Site made with Mobirise Website Builder v4.8.2, https://mobirise.com -->
   <meta charset="UTF-8">
   <meta http-equiv="X-UA-Compatible" content="IE=edge">
-  <meta name="generator" content="Mobirise v4.9.1, mobirise.com">
+  <meta name="generator" content="Mobirise v4.8.2, mobirise.com">
   <meta name="viewport" content="width=device-width, initial-scale=1, minimum-scale=1">
   <link rel="shortcut icon" href="assets/images/grupo-128x63.png" type="image/x-icon">
   <meta name="description" content="">
@@ -53,7 +53,7 @@
     </nav>
 </section>
 
-<section class="engine"><a href="https://mobirise.info/u">bootstrap website templates</a></section><section class="header3 cid-rjW6AeZTAV mbr-parallax-background" id="header3-41">
+<section class="engine"><a href="https://mobiri.se/a">online website builder</a></section><section class="header3 cid-rjW6AeZTAV mbr-parallax-background" id="header3-41">
 
     
 

diff --git a/taller-inscripcion.html b/taller-inscripcion.html
@@ -1,10 +1,10 @@
 <!DOCTYPE html>
 <html >
 <head>
-  <!-- Site made with Mobirise Website Builder v4.9.1, https://mobirise.com -->
+  <!-- Site made with Mobirise Website Builder v4.8.2, https://mobirise.com -->
   <meta charset="UTF-8">
   <meta http-equiv="X-UA-Compatible" content="IE=edge">
-  <meta name="generator" content="Mobirise v4.9.1, mobirise.com">
+  <meta name="generator" content="Mobirise v4.8.2, mobirise.com">
   <meta name="viewport" content="width=device-width, initial-scale=1, minimum-scale=1">
   <link rel="shortcut icon" href="assets/images/grupo-128x63.png" type="image/x-icon">
   <meta name="description" content="">
@@ -52,7 +52,7 @@
     </nav>
 </section>
 
-<section class="engine"><a href="https://mobirise.info/e">make your own site for free</a></section><section class="header3 cid-rbdiFFcSJG mbr-parallax-background" id="header3-3j">
+<section class="engine"><a href="https://mobiri.se/l">free web templates</a></section><section class="header3 cid-rbdiFFcSJG mbr-parallax-background" id="header3-3j">
 
     
 

diff --git a/mendoza.html b/mendoza.html
@@ -1,10 +1,10 @@
 <!DOCTYPE html>
 <html >
 <head>
-  <!-- Site made with Mobirise Website Builder v4.9.1, https://mobirise.com -->
+  <!-- Site made with Mobirise Website Builder v4.8.2, https://mobirise.com -->
   <meta charset="UTF-8">
   <meta http-equiv="X-UA-Compatible" content="IE=edge">
-  <meta name="generator" content="Mobirise v4.9.1, mobirise.com">
+  <meta name="generator" content="Mobirise v4.8.2, mobirise.com">
   <meta name="viewport" content="width=device-width, initial-scale=1, minimum-scale=1">
   <link rel="shortcut icon" href="assets/images/grupo-128x63.png" type="image/x-icon">
   <meta name="description" content="">
@@ -53,7 +53,7 @@
     </nav>
 </section>
 
-<section class="engine"><a href="https://mobirise.info/e">make your own website</a></section><section class="header3 cid-rDjcNPfXMA mbr-parallax-background" id="header3-56">
+<section class="engine"><a href="https://mobiri.se/s">free bootstrap theme</a></section><section class="header3 cid-rDjcNPfXMA mbr-parallax-background" id="header3-56">
 
     
 

diff --git a/intensivo-1dia.html b/intensivo-1dia.html
@@ -1,10 +1,10 @@
 <!DOCTYPE html>
 <html >
 <head>
-  <!-- Site made with Mobirise Website Builder v4.9.1, https://mobirise.com -->
+  <!-- Site made with Mobirise Website Builder v4.8.2, https://mobirise.com -->
   <meta charset="UTF-8">
   <meta http-equiv="X-UA-Compatible" content="IE=edge">
-  <meta name="generator" content="Mobirise v4.9.1, mobirise.com">
+  <meta name="generator" content="Mobirise v4.8.2, mobirise.com">
   <meta name="viewport" content="width=device-width, initial-scale=1, minimum-scale=1">
   <link rel="shortcut icon" href="assets/images/grupo-128x63.png" type="image/x-icon">
   <meta name="description" content="">
@@ -53,7 +53,7 @@
     </nav>
 </section>
 
-<section class="engine"><a href="https://mobirise.info/x">css templates</a></section><section class="header3 cid-rBkOc93itm mbr-parallax-background" id="header3-4r">
+<section class="engine"><a href="https://mobiri.se/a">online site builder</a></section><section class="header3 cid-rBkOc93itm mbr-parallax-background" id="header3-4r">
 
     
 
